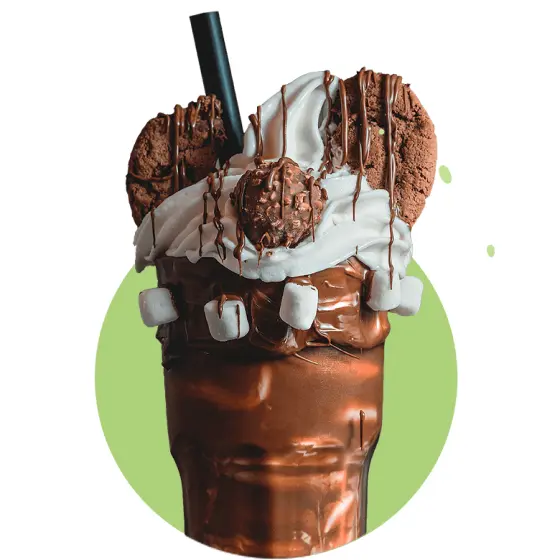
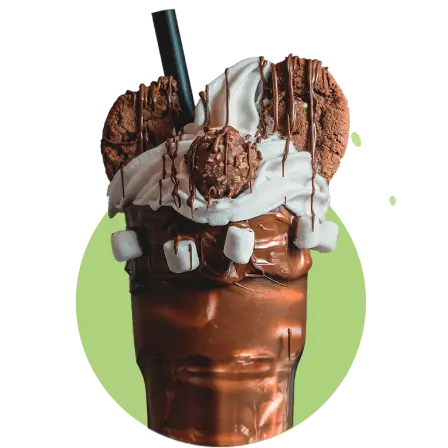
20220714, 1132
Обновил фото для декстопа, исправил где надо было png вместо jpg, добавил описание в visually-hidden, добавил папку js и файлы modal.js и menu.js

diff --git a/src/index.html b/src/index.html
@@ -9,7 +9,7 @@
   </head>
   <body>
     <!-- ❗❗❗ Add partials like so for every page -->
-    <include src="./partials/example.html"></include>
+    
     <include src="./partials/header.html"></include>
     <include src="./partials/hero.html"></include>
     <include src="./partials/products.html"></include>
@@ -19,5 +19,8 @@
     <include src="./partials/review.html"></include>
     <include src="./partials/contacts.html"></include>
     <include src="./partials/footer.html"></include>
+
+    <script src="./js/menu.js"></script>
+    <script src="./js/modal.js"></script>
   </body>
 </html>

diff --git a/src/js/modal.js b/src/js/modal.js
@@ -1,0 +1,14 @@
+(() => {
+    const refs = {
+      openModalBtn: document.querySelector("[data-modal-open]"),
+      closeModalBtn: document.querySelector("[data-modal-close]"),
+      modal: document.querySelector("[data-modal]"),
+    };
+  
+    refs.openModalBtn.addEventListener("click", toggleModal);
+    refs.closeModalBtn.addEventListener("click", toggleModal);
+  
+    function toggleModal() {
+      refs.modal.classList.toggle("is-hidden");
+    }
+  })();

diff --git a/src/js/menu.js b/src/js/menu.js
@@ -1,0 +1,12 @@
+(() => {
+    const refs = {
+      openMenuBtn: document.querySelector('[data-menu-open]'),
+      closeMenuBtn: document.querySelector('[data-menu-close]'),
+      menu: document.querySelector('[data-menu]'),
+    };
+    refs.openMenuBtn.addEventListener('click', toggleModal);
+    refs.closeMenuBtn.addEventListener('click', toggleModal);
+    function toggleModal() {
+      refs.menu.classList.toggle('is-open');
+    }
+  })();

diff --git a/src/sass/utils/_visually-hidden.scss b/src/sass/utils/_visually-hidden.scss
@@ -1,0 +1,12 @@
+.visually-hidden {
+    position: absolute;
+    width: 1px;
+    height: 1px;
+    margin: -1px;
+    border: 0;
+    padding: 0;
+    white-space: nowrap;
+    clip-path: inset(100%);
+    clip: rect(0 0 0 0);
+    overflow: hidden;
+  }  

diff --git a/src/sass/index.scss b/src/sass/index.scss
@@ -1,6 +1,3 @@
-@import './base/common';
-@import './example';
-
 @import './utils/variables';
 @import './utils/visually-hidden';
 
